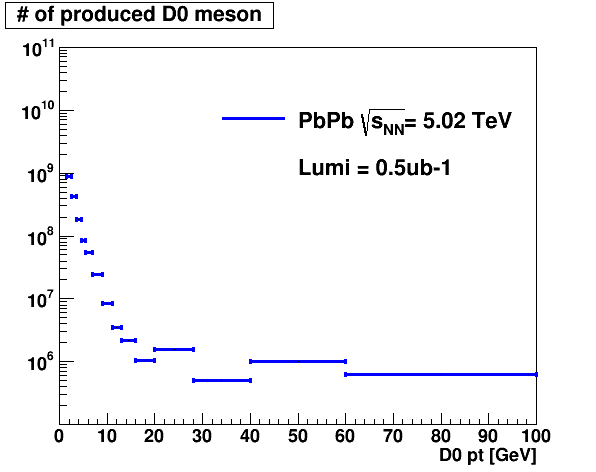
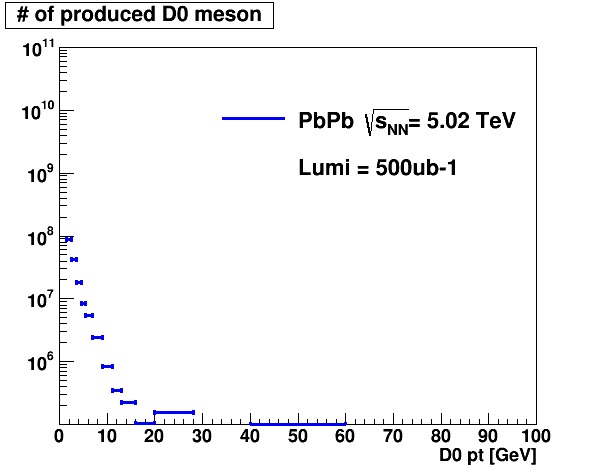
update

diff --git a/MesonPrediction/Dmeson/PlotXsec.cc b/MesonPrediction/Dmeson/PlotXsec.cc
@@ -74,7 +74,7 @@ void PlotXsec(){
 		aerrorl[i] = 0;
 		aerrorh[i] = 0;
 
-		genB[i] = 0.5 * 2 * 500e-6*10 * 208*208 * diffXsec * Fraction * (bins[i+1]-bins[i]) * ratioDataDrivenVSFONLL[i] / HLTprescale2015[i];//2-15 expected PbPb = 0.5ub-1
+		genB[i] = 0.5 * 2 * 500e-6 * 208*208 * diffXsec * Fraction * (bins[i+1]-bins[i]) * ratioDataDrivenVSFONLL[i] / HLTprescale2015[i];//2015 expected PbPb = 500ub-1
 		aerrorl2[i] = 0;
 		aerrorh2[i] = 0;
 		cout<<"genB: "<<genB[i]<<endl;
@@ -112,7 +112,7 @@ void PlotXsec(){
     leg->SetBorderSize(0);
 	leg->SetTextSize(0.05);
     leg->AddEntry(GenB,"PbPb #sqrt{s_{NN}}= 5.02 TeV","l");
-    leg->AddEntry((TObject*)0,"Lumi = 0.5ub-1","");
+    leg->AddEntry((TObject*)0,"Lumi = 500ub-1","");
 	leg->Draw();
 	cr->SaveAs("Plots/GenD.png");
 
